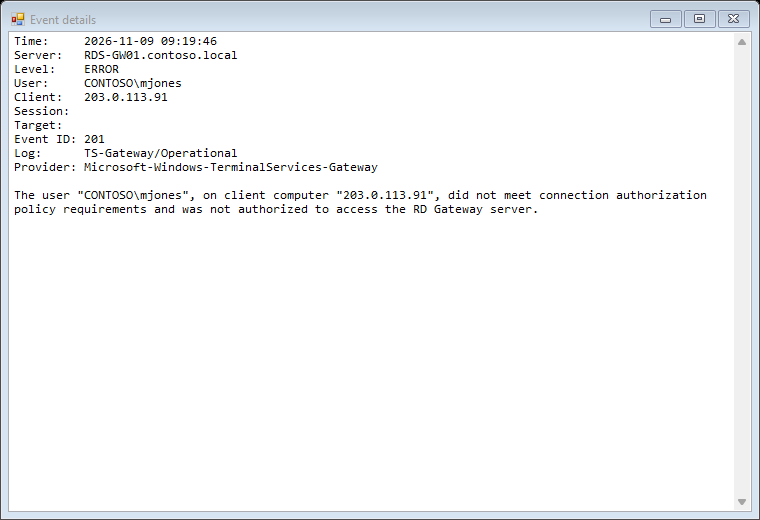
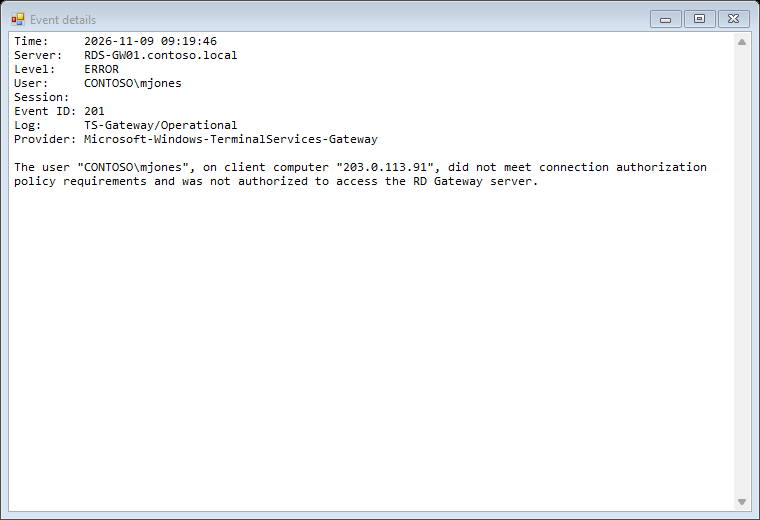
Simplify server and event columns
Servers panel: hide RDS roles, OS, AD last logon and OU columns. Role
detection results now show in the Status column; the hidden data still
drives RDS only, the filter box and saved settings.

Events: remove the Client address and Target columns from the grid,
CSV, search and details window. They were blank for most events; the
details remain in the message text.

If an existing CSV has different columns, write to a new timestamped
file instead of mixing formats. README and screenshots updated.

Changed region(s): [[0.0, 0.1846, 0.9382, 0.4308]]

diff --git a/README.md b/README.md
@@ -19,7 +19,7 @@ Screenshots in this guide use sample data from a test domain (contoso.local).
 
 - Lists the Windows Servers in Active Directory and detects which ones have Remote Desktop roles (Session Host, Gateway, Connection Broker, Licensing, Web Access).
 - Reads the RDS event logs on each ticked server in the background. A slow or offline server does not hold up the others or freeze the window.
-- Shows every event in one grid with columns for time, server, level, user, client address, session, target, event ID, log, provider and message.
+- Shows every event in one grid with columns for time, server, level, user, session, event ID, log, provider and message.
 - Highlights issues: errors, critical events and audit failures in bold red on a pink background, and warnings in red.
 - Writes everything to one CSV file that opens cleanly in Excel.
 - Filters and sorts the grid like an Excel table, with a filter button on every column.
@@ -56,10 +56,10 @@ The Servers panel on the left loads every enabled Windows Server from Active Dir
 | Control | What it does |
 |---|---|
 | Reload from AD | Reads the server list from Active Directory again. |
-| Detect RDS roles | Asks each listed server which Remote Desktop roles it has, fills in the RDS roles column and ticks the servers that have one. |
+| Detect RDS roles | Asks each listed server which Remote Desktop roles it has, shows the result in the Status column (for example "RDS: Session Host" or "No RDS roles") and ticks the servers that have one. |
 | All / None | Ticks or unticks every server in the list. |
 | RDS only | Ticks only the servers with a detected RDS role. |
-| Filter box (left) | Narrows the list by name, role, operating system or OU. |
+| Filter box (left) | Narrows the list by server name, detected role, operating system or OU. |
 | Add box (right) | Adds a server by name, for one that is not in Active Directory. Press Enter or click Add. |
 
 Your ticked servers, detected roles, CSV path and options are saved and restored next time.
@@ -137,13 +137,13 @@ Client-side Remote Desktop logs are skipped. So are Analytic and Debug logs, whi
 | Level | INFO, WARNING, ERROR, CRITICAL, AUDIT-OK, AUDITFAIL, or MONITOR for the app's own messages |
 | Issue | Yes or No |
 | User | The user the event is about, taken from the event data (for example `CONTOSO\jbloggs`) |
-| ClientAddress | The client IP address, with the client computer name in brackets when the event records it |
 | SessionId | The Remote Desktop session ID |
-| Target | For RD Gateway and Connection Broker events, the server the user was connecting to |
 | EventId | The Windows event ID |
 | Log | The event log, shortened (for example `TS-Gateway/Operational`) |
 | Provider | The source that wrote the event |
-| Message | The full event message on one line, with line breaks shown as a vertical bar (\|) |
+| Message | The full event message on one line, with line breaks shown as a vertical bar (\|). Where Windows records them, the client IP address and the server a user connected to through RD Gateway appear here. |
+
+If you start logging to an existing CSV that has different columns, for example one written by an older version, the app leaves that file alone and saves to a new file with the time added to its name. A blue message in the grid shows the new file name.
 
 The file is UTF-8 with a header row. The app adds to an existing file instead of overwriting it. Values that Excel would treat as a formula, such as a username starting with `=`, are prefixed with an apostrophe so they display as plain text.
 
@@ -184,13 +184,13 @@ The account running the app is not an administrator on that server and is not in
 
 The machine cannot contact a domain controller, for example because it is off the domain network. Add servers by name with the Add box instead.
 
-### RDS roles shows "unknown"
+### Status shows "Role check failed"
 
-The server did not answer over WinRM or DCOM. Hover over the cell to see the error. You can still tick the server and monitor it; role detection only helps you choose.
+The server did not answer over WinRM or DCOM when you clicked Detect RDS roles. Hover over the status to see the error. You can still tick the server and monitor it; role detection only helps you choose.
 
 ## Test one server from the command line
 
-`-Probe` connects to one server, lists the logs it would watch and shows the last hour of events with the user and client fields filled in. No window opens. Use it to confirm firewall and permissions before you start the app.
+`-Probe` connects to one server, lists the logs it would watch and shows the last hour of events with the user field filled in. No window opens. Use it to confirm firewall and permissions before you start the app.
 
 ```powershell
 .\RDSLogMonitor.ps1 -Probe RDSH01.contoso.local
